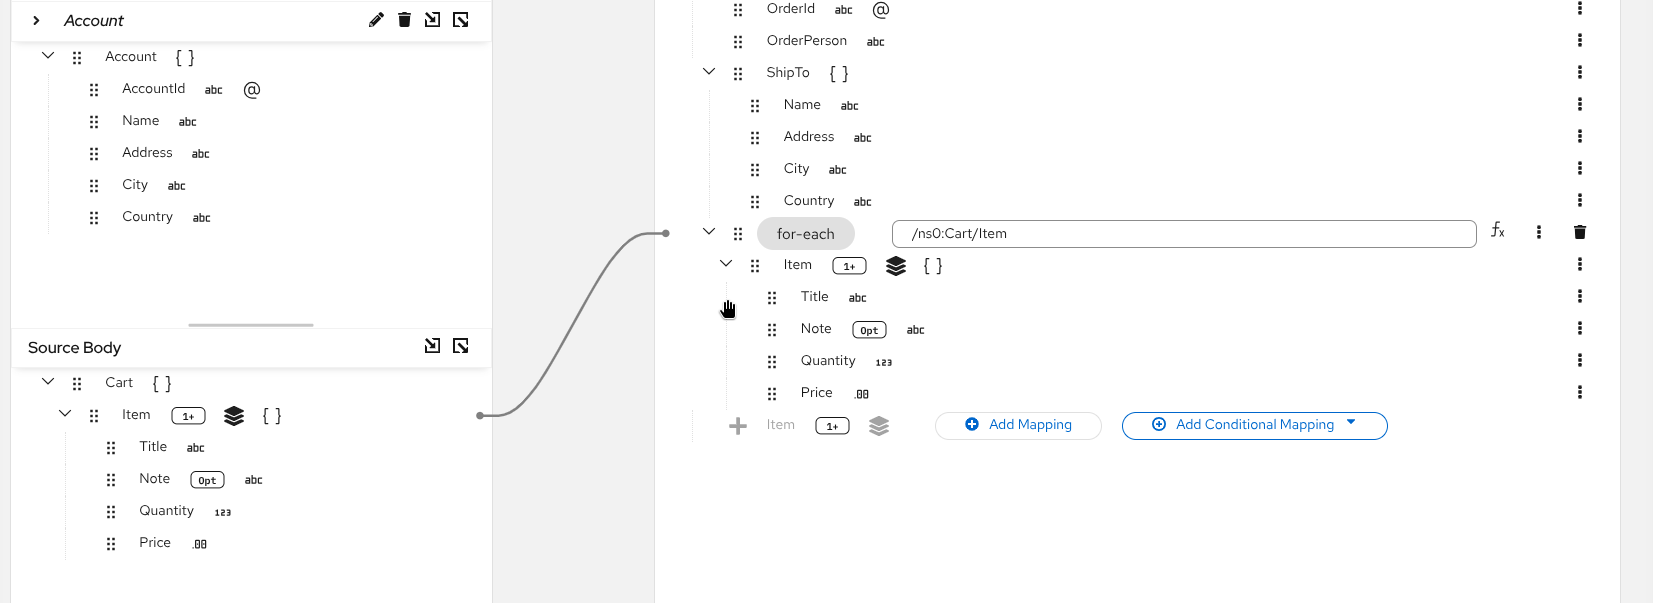
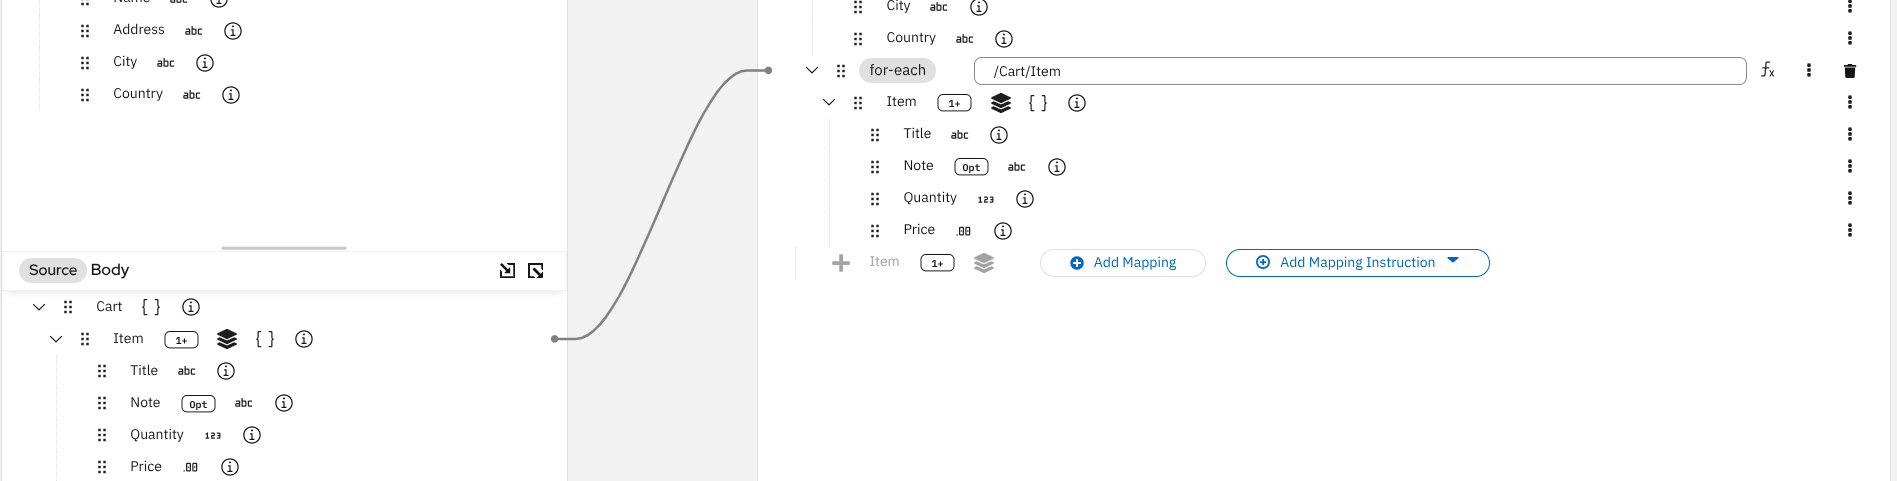
checkpoint: - Fix Loop Mappings text and screenshots - Fix Variables text

diff --git a/content/docs/datamapper/05-loop-mappings/_index.md b/content/docs/datamapper/05-loop-mappings/_index.md
@@ -36,6 +36,16 @@ Use `xsl:for-each` when you want to transform each item of a source collection i
 > [!IMPORTANT]
 > Inside a for-each mapping, field paths are relative to the current collection item. For example, if iterating over `Items`, reference `Name` instead of `Items/Name`.
 
+### Inner "for-each"
+
+Use **Inner "for-each"** when the target field is always emitted (not a collection) but its content should be produced by iterating a source collection. Apply it to the target field instead of wrapping it:
+
+1. **Click the `⋮` menu** on the target field and select **"Inner Instruction" → "Inner for-each"**
+2. **Enter the source collection XPath** on the inner `for-each` node
+3. **Map child fields** inside the `for-each` scope
+
+The outer target field is always written to the output; the `for-each` controls what is written inside it.
+
 ---
 
 ## Sorting For-Each Results
@@ -79,7 +89,7 @@ Merge multiple source collections into a single target collection by stacking mu
 1. **Create the first for-each mapping** as described above
 
 2. **Add another for-each** — Click **"Add Mapping Instruction"** in the placeholder below the first mapping and select **"Wrap with for-each"**
-{{< image-sh src="datamapper-wrap-with-for-each.png" text="Add second for-each mapping" >}}
+<!-- MEDIA PLACEHOLDER: Screenshot showing the "Add Mapping Instruction" placeholder button below the first for-each node, with the context menu open and "Wrap with for-each" highlighted. -->
 
 3. **Configure the second collection** — Select the source collection and map its fields
 {{< image-sh src="datamapper-map-2nd-for-each-children.png" text="Configure second collection and map its fields" >}}
@@ -124,20 +134,20 @@ Use `xsl:for-each-group` when you need to group items from a source collection b
 
 7. **Click Save**
 
-8. **Map fields inside the group** — Inside the `for-each-group` scope, map fields as normal. Field paths are relative to the current group's context item. Use `current-group()` to reference all items in the current group.
+8. **Map fields inside the group** — Inside the `for-each-group` scope, map fields as normal. Field paths are relative to the current group's context item.
 
-> [!TIP]
-> Once inside a `for-each-group` scope, the **Inner Instruction** submenu offers **"Inner for-each current-group()"** to iterate over the members of the current group for detail-level mappings.
+9. **(Optional) Iterate the group members individually** — Click the `⋮` menu on the `for-each-group` node and select **"Inner Instruction" → "Inner for-each current-group()"**. This inserts a `for-each` with `select="current-group()"` inside the group scope so you can map per-item fields.
 
 <!-- MEDIA PLACEHOLDER: Screencast showing the full for-each-group workflow: wrap → configure modal (strategy + grouping expression) → map fields inside the group. The dm-for-each-group.gif from the 2.12 release blog post may be reusable here. -->
 
-### Nesting groups
+### Inner "for-each-group"
 
-For hierarchical groupings, add an inner `for-each-group` inside an existing `for-each-group` scope:
+When the target field is always emitted but its content should be produced by grouping a source collection, apply Inner "for-each-group" directly to the target field:
 
-1. **Click the `⋮` menu** on a field inside the outer group and select **"Inner Instruction" → "Inner for-each-group"**
-2. Configure the inner grouping expression and strategy
-3. Map fields for each inner group
+1. **Click the `⋮` menu** on the target field and select **"Inner Instruction" → "Inner for-each-group"**
+2. **Enter the source collection XPath** on the inner `for-each-group` node
+3. **Click the `⋮` menu** on the `for-each-group` node and select **"Configure for-each-group"** to set the grouping strategy and expression
+4. **Map fields** inside the group scope
 
 ---
 

diff --git a/content/docs/datamapper/06-variables/_index.md b/content/docs/datamapper/06-variables/_index.md
@@ -12,7 +12,7 @@ The DataMapper supports `xsl:variable` as first-class mapping sources. Variables
 Variables have two scopes:
 
 - **Global (template-level)** — defined at the top of the `xsl:template`, available anywhere in the mapping. Created from the Variables panel header.
-- **Local (node-scoped)** — defined immediately before a specific target field, available only to that field and its following siblings within the same scope. Created from the `⋮` mapping context menu on a target field.
+- **Local (node-scoped)** — defined as a child of a container field or instruction node, available to that node's content and its following siblings within the same scope. Created from the `⋮` mapping context menu.
 
 > [!NOTE]
 > The XSLT following-sibling rule applies: a local variable can only be referenced by fields that come after it in the same scope. The DataMapper enforces this during drag-and-drop — drops that would violate the rule are rejected.
@@ -21,7 +21,7 @@ Variables have two scopes:
 
 ## The Variables Panel
 
-The **Variables** panel sits in the source tree, below the Source Body and Parameters sections. It lists all variables available at the current mapping scope.
+The **Variables** panel sits at the top of the source tree, above the Parameters and Source Body sections. It lists all variables available at the current mapping scope.
 
 <!-- MEDIA PLACEHOLDER: Screenshot showing the Variables panel in the source tree with one global variable and one local variable visible, with the "+" button highlighted in the panel header. The dm-variables.gif from the 2.12 release blog post may be reusable here. -->
 
@@ -54,7 +54,7 @@ A global variable is available throughout the entire mapping. Use it to compute 
 
 ## Add a Local Variable
 
-A local variable is scoped to a specific target field — it is inserted as an `xsl:variable` immediately before that field in the generated XSLT and is available only within that field's scope.
+A local variable is added as a child of a container field or instruction node — the `xsl:variable` is placed inside that node's scope in the generated XSLT, available to its content and following siblings.
 
 ### Steps
 
@@ -69,7 +69,7 @@ A local variable is scoped to a specific target field — it is inserted as an `
 > Local variables do not have an inline expression input in the Variables panel — their value is set by mapping source fields onto the variable row, just like any other target field.
 
 > [!TIP]
-> "Add variable" only appears in the `⋮` menu on container fields (fields that have children). It is not available on leaf fields or on instruction nodes like `for-each`.
+> "Add variable" only appears in the `⋮` menu on container fields (fields that have children) and on instruction nodes such as `for-each`, `for-each-group`, `if`, `when`, and `otherwise`. It is not available on leaf fields.
 
 ---
 
@@ -118,5 +118,5 @@ Click the **eye icon** in the Variables panel header to toggle visibility of the
 
 ## Next Steps
 
-1. **[XPath Editor](../07-xpath-editor/)** — write complex expressions that reference variables
+1. **[XPath Editor](../07-xpath-editor/)** — write complex expressions in the variable definition, or reference variables
 2. **[Loop Mappings](../05-loop-mappings/)** — variables are particularly useful inside `for-each` and `for-each-group` scopes to capture intermediate values
